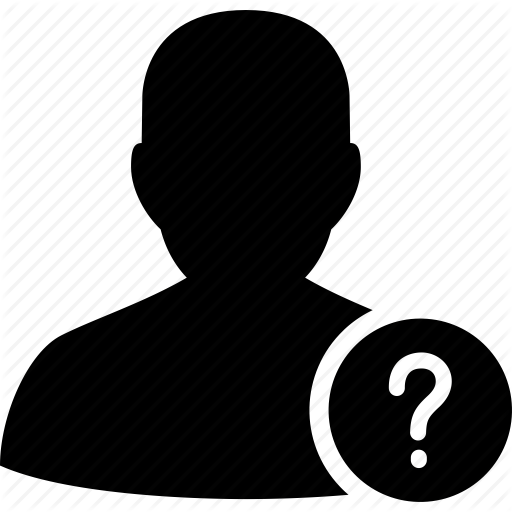
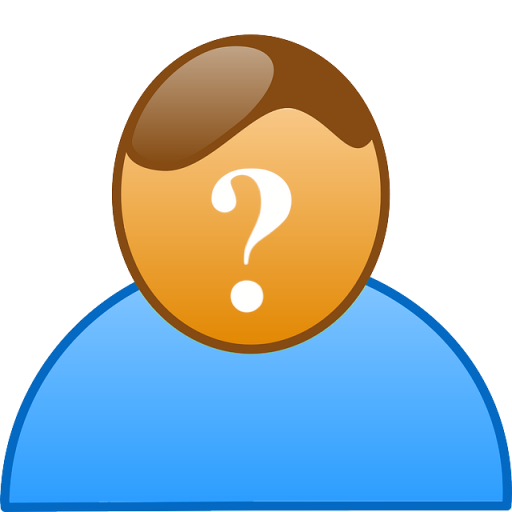
aggiungo classi per la grafica

diff --git a/src/com/smartAPI/view/ShowUsersInfo.java b/src/com/smartAPI/view/ShowUsersInfo.java
@@ -39,7 +39,7 @@ public class ShowUsersInfo extends JPanel{
 		setBackground(new Color(2, 94, 137));
 		lblImage = new JLabel();
 		//path dipende dall'avatar dell'utente
-		String path= "res/3.png";
+		String path= "res/nouser.png";
 		String pathIcon = getClass().getResource(path).getFile();
 		MyImageIcon imgicon = new MyImageIcon(pathIcon,80,70);
 		lblImage.setIcon(imgicon.getImageResponsive());
